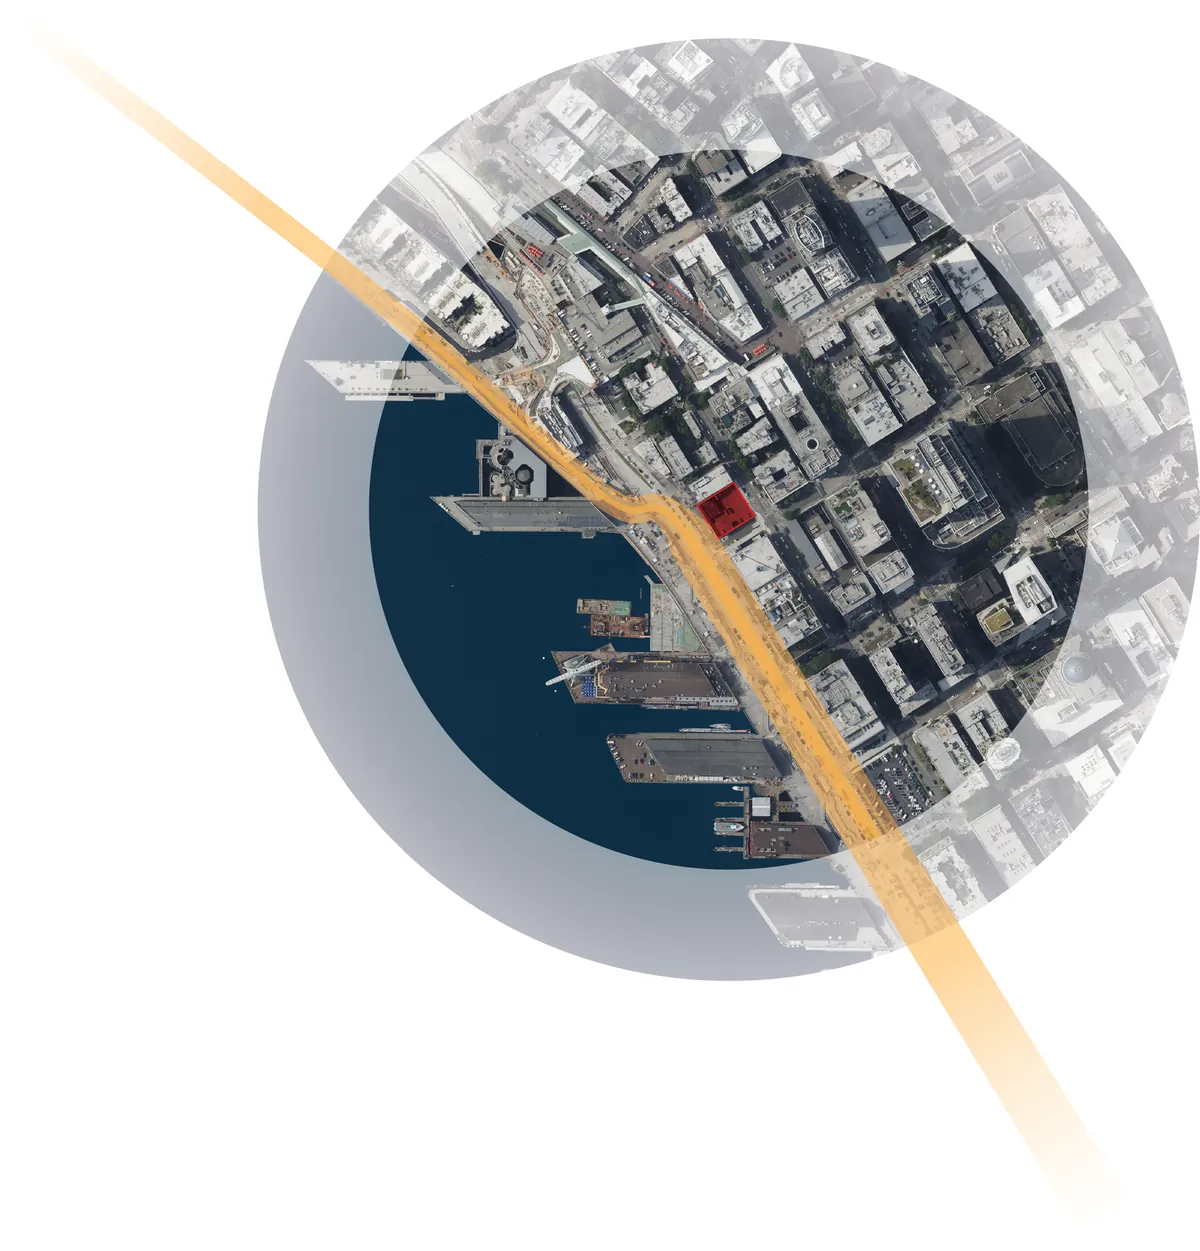
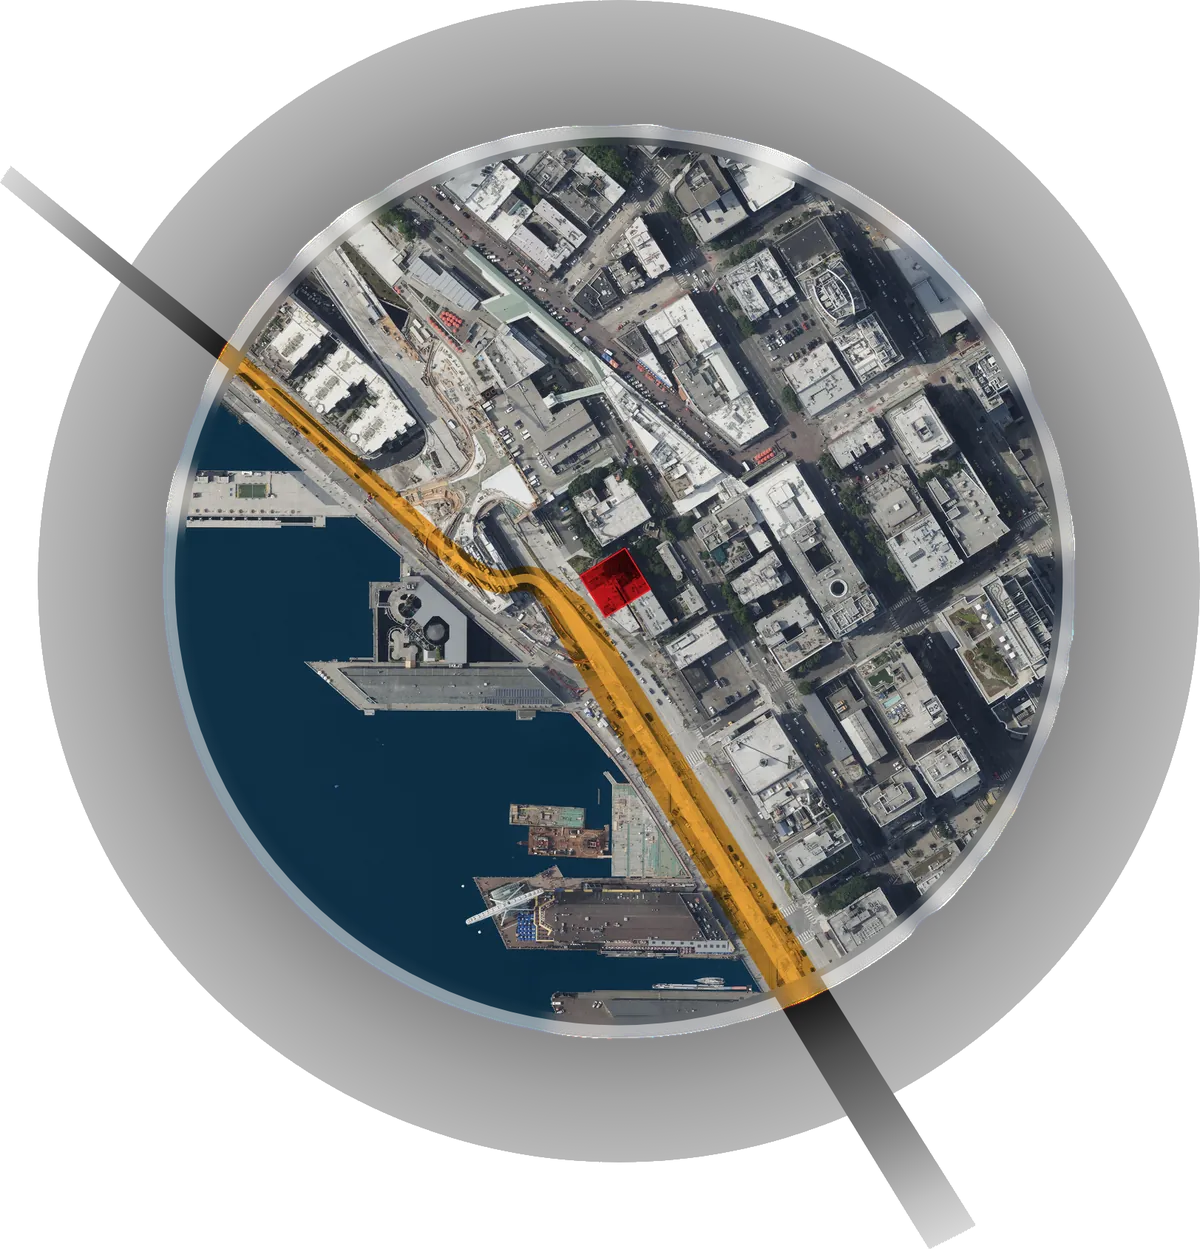
BRIDGE1400 site map: transparent edge fade instead of a white box
tools/render_site_map.py rebuilds the map from the Illustrator SVG with the
white radial fade replaced by an alpha fade, so it blends into light and dark
pages. Zoom images no longer get a white backing. Original design files under
docs/assets/img/*/Original/ are gitignored, and check_links skips them when
reporting site size.

diff --git a/docs/work/bridge1400/index.html b/docs/work/bridge1400/index.html
@@ -39,7 +39,7 @@
     <dl class="meta"><div><dt>Type</dt><dd>Mixed-use hotel</dd></div><div><dt>Location</dt><dd>Seattle, WA</dd></div><div><dt>Year</dt><dd>2025</dd></div><div><dt>Context</dt><dd>Graduate studio, WSU</dd></div><div><dt>Role</dt><dd>Sole designer</dd></div><div><dt>Tools</dt><dd>Revit, D5 Render, AutoCAD, Photoshop, Illustrator, Google Earth Studio</dd></div></dl>
     <div class="intro-text"><p>Bridge1400 sits on the threshold between Seattle&#x27;s mercantile downtown and its waterfront. Instead of smoothing over that break, the project makes it spatial: a tall void cuts through the podium as a civic canyon linking Alaskan Way to Western Avenue.</p><p>A grand stair works as both passage and pause, and a slow ramp climbs past planted terraces with filtered views of Elliott Bay. Above the four-level retail and lobby podium, a mass timber hotel tower frames the water to the northwest and the city to the southeast.</p><div class="facts"><div class="fact"><span>Levels</span><strong>13</strong></div><div class="fact"><span>Structure</span><strong>Mass timber tower over podium</strong></div><div class="fact"><span>Program</span><strong>Retail, hotel lobby, restaurants, pool, 9 guest-room levels</strong></div></div></div>
   </section>
-  <section class="chapter reveal"><div class="chapter-text"><h2>Site</h2><p>Between Pike Place Market and the waterfront promenade, the site takes its cues from both: vertical density to the east, openness and movement to the west.</p></div><div class="chapter-figs"><figure class="zoom"><img class="" src="../../assets/img/bridge1400/site-1200.webp" srcset="../../assets/img/bridge1400/site-1200.webp 1200w, ../../assets/img/bridge1400/site-2400.webp 2400w" sizes="(min-width: 1400px) 1400px, 100vw" width="2086" height="2174" alt="Site context: downtown Seattle and Elliott Bay" loading="lazy" decoding="async"><figcaption>Site context: downtown Seattle and Elliott Bay</figcaption></figure></div></section><section class="chapter reveal"><div class="chapter-text"><h2>Form</h2><p>Eight moves shape the block: a full zoning envelope, a daylight cut along Alaskan Way, an interlocking sloped tower, podium voids for entry and egress, a central atrium and the experiential ramp from Level 4 to Level 5.</p></div><div class="chapter-figs"><figure class="zoom"><img class="" src="../../assets/img/bridge1400/massing-1200.webp" srcset="../../assets/img/bridge1400/massing-1200.webp 1200w, ../../assets/img/bridge1400/massing-2400.webp 2400w" sizes="(min-width: 1400px) 1400px, 100vw" width="3200" height="1600" alt="Massing sequence and waterfront-to-city diagram" loading="lazy" decoding="async"><figcaption>Massing sequence and waterfront-to-city diagram</figcaption></figure></div></section><section class="chapter reveal"><div class="chapter-text"><h2>Plans</h2><p>Retail activates the first two levels. The hotel lobby, restaurants and an infinity pool fill the podium, and guest rooms stack above with terraces and a sky lounge.</p></div><div class="chapter-figs"><figure class="zoom"><img class="" src="../../assets/img/bridge1400/plans-1200.webp" srcset="../../assets/img/bridge1400/plans-1200.webp 1200w, ../../assets/img/bridge1400/plans-2400.webp 2400w" sizes="(min-width: 1400px) 1400px, 100vw" width="3200" height="1600" alt="Floor plans, Levels 1 to 13" loading="lazy" decoding="async"><figcaption>Floor plans, Levels 1 to 13</figcaption></figure></div></section><section class="chapter reveal"><div class="chapter-text"><h2>Sections</h2><p>Double-height retail glazing, a restaurant stair through a central void, and the pool-to-bar ramp are read together in section. Rooftop and facade PV, greywater reuse and rainwater harvesting are sized in the performance study.</p></div><div class="chapter-figs"><figure class="zoom"><img class="" src="../../assets/img/bridge1400/section-aa-1200.webp" srcset="../../assets/img/bridge1400/section-aa-1200.webp 1200w, ../../assets/img/bridge1400/section-aa-2400.webp 2400w" sizes="(min-width: 1400px) 1400px, 100vw" width="3200" height="1600" alt="Section AA" loading="lazy" decoding="async"><figcaption>Section AA</figcaption></figure><figure class="zoom"><img class="" src="../../assets/img/bridge1400/section-bb-1200.webp" srcset="../../assets/img/bridge1400/section-bb-1200.webp 1200w, ../../assets/img/bridge1400/section-bb-2400.webp 2400w" sizes="(min-width: 1400px) 1400px, 100vw" width="3200" height="1600" alt="Section BB with energy, water and carbon study" loading="lazy" decoding="async"><figcaption>Section BB with energy, water and carbon study</figcaption></figure></div></section>
+  <section class="chapter reveal"><div class="chapter-text"><h2>Site</h2><p>Between Pike Place Market and the waterfront promenade, the site takes its cues from both: vertical density to the east, openness and movement to the west.</p></div><div class="chapter-figs"><figure class="zoom"><img class="" src="../../assets/img/bridge1400/site-1200.webp" srcset="../../assets/img/bridge1400/site-1200.webp 1200w, ../../assets/img/bridge1400/site-2400.webp 2400w" sizes="(min-width: 1400px) 1400px, 100vw" width="1623" height="1689" alt="Site context: downtown Seattle and Elliott Bay" loading="lazy" decoding="async"><figcaption>Site context: downtown Seattle and Elliott Bay</figcaption></figure></div></section><section class="chapter reveal"><div class="chapter-text"><h2>Form</h2><p>Eight moves shape the block: a full zoning envelope, a daylight cut along Alaskan Way, an interlocking sloped tower, podium voids for entry and egress, a central atrium and the experiential ramp from Level 4 to Level 5.</p></div><div class="chapter-figs"><figure class="zoom"><img class="" src="../../assets/img/bridge1400/massing-1200.webp" srcset="../../assets/img/bridge1400/massing-1200.webp 1200w, ../../assets/img/bridge1400/massing-2400.webp 2400w" sizes="(min-width: 1400px) 1400px, 100vw" width="3200" height="1600" alt="Massing sequence and waterfront-to-city diagram" loading="lazy" decoding="async"><figcaption>Massing sequence and waterfront-to-city diagram</figcaption></figure></div></section><section class="chapter reveal"><div class="chapter-text"><h2>Plans</h2><p>Retail activates the first two levels. The hotel lobby, restaurants and an infinity pool fill the podium, and guest rooms stack above with terraces and a sky lounge.</p></div><div class="chapter-figs"><figure class="zoom"><img class="" src="../../assets/img/bridge1400/plans-1200.webp" srcset="../../assets/img/bridge1400/plans-1200.webp 1200w, ../../assets/img/bridge1400/plans-2400.webp 2400w" sizes="(min-width: 1400px) 1400px, 100vw" width="3200" height="1600" alt="Floor plans, Levels 1 to 13" loading="lazy" decoding="async"><figcaption>Floor plans, Levels 1 to 13</figcaption></figure></div></section><section class="chapter reveal"><div class="chapter-text"><h2>Sections</h2><p>Double-height retail glazing, a restaurant stair through a central void, and the pool-to-bar ramp are read together in section. Rooftop and facade PV, greywater reuse and rainwater harvesting are sized in the performance study.</p></div><div class="chapter-figs"><figure class="zoom"><img class="" src="../../assets/img/bridge1400/section-aa-1200.webp" srcset="../../assets/img/bridge1400/section-aa-1200.webp 1200w, ../../assets/img/bridge1400/section-aa-2400.webp 2400w" sizes="(min-width: 1400px) 1400px, 100vw" width="3200" height="1600" alt="Section AA" loading="lazy" decoding="async"><figcaption>Section AA</figcaption></figure><figure class="zoom"><img class="" src="../../assets/img/bridge1400/section-bb-1200.webp" srcset="../../assets/img/bridge1400/section-bb-1200.webp 1200w, ../../assets/img/bridge1400/section-bb-2400.webp 2400w" sizes="(min-width: 1400px) 1400px, 100vw" width="3200" height="1600" alt="Section BB with energy, water and carbon study" loading="lazy" decoding="async"><figcaption>Section BB with energy, water and carbon study</figcaption></figure></div></section>
   <a class="next" href="../../work/professional-work/"><span>Next project</span><strong>Professional Work</strong></a>
 </article>
 </main>

diff --git a/docs/assets/css/style.css b/docs/assets/css/style.css
@@ -114,7 +114,7 @@ em { font-family: var(--serif); font-style: italic; font-weight: 400; }
 .chapter-figs { display: grid; gap: 2rem; }
 figure { margin: 0; }
 figcaption { font-size: .85rem; color: var(--ink-2); margin-top: .6rem; }
-.zoom img { cursor: zoom-in; border-radius: 4px; background: #fff; }
+.zoom img { cursor: zoom-in; border-radius: 4px; }  /* no white backing: transparent drawings sit on the page colour */
 
 /* Reel hero: silent looping highlight video behind the headline (home + Films page) */
 .reel-hero { position: relative; overflow: hidden; background: #0e0e0d; color: #f4f2ee;

diff --git a/tools/render_site_map.py b/tools/render_site_map.py
@@ -1,0 +1,70 @@
+"""Render the BRIDGE1400 site map from Rakib's Illustrator SVG with a transparent edge fade.
+
+Run:  python tools/render_site_map.py
+Input:  docs/assets/img/bridge1400/Original/Site/*.svg   (Illustrator export, not published)
+Output: docs/assets/img/bridge1400/Original/Site/site-transparent.png   (2592 px, alpha)
+Then:   python tools/prepare_images.py   (makes the web copies)
+
+Why: the SVG fades its edge to solid white (<circle class="st3"> with a white radial gradient),
+which shows as a white box on the off-white page and in dark mode. This removes that circle and
+applies the same fade as an alpha mask, so the map dissolves into any background.
+"""
+import glob
+import os
+import re
+import subprocess
+
+ROOT = os.path.dirname(os.path.dirname(os.path.abspath(__file__)))
+FOLDER = os.path.join(ROOT, "docs", "assets", "img", "bridge1400", "Original", "Site")
+CHROME = r"C:\Program Files\Google\Chrome\Application\chrome.exe"
+OUT = os.path.join(FOLDER, "site-transparent.png")
+SIZE = 1296   # SVG viewBox
+SCALE = 2     # 2592 px output
+
+FADE = """
+<radialGradient id="fade" cx="648" cy="648" r="581.9" gradientUnits="userSpaceOnUse">
+  <stop offset=".5" stop-color="#fff" stop-opacity="1"/>
+  <stop offset=".6" stop-color="#fff" stop-opacity=".7"/>
+  <stop offset=".7" stop-color="#fff" stop-opacity=".5"/>
+  <stop offset=".8" stop-color="#fff" stop-opacity=".25"/>
+  <stop offset=".9" stop-color="#fff" stop-opacity=".08"/>
+  <stop offset="1" stop-color="#fff" stop-opacity="0"/>
+</radialGradient>
+<mask id="fade-mask" maskUnits="userSpaceOnUse" x="0" y="0" width="1296" height="1296">
+  <rect width="1296" height="1296" fill="url(#fade)"/>
+</mask>
+</defs>"""
+
+
+def main():
+    svgs = [p for p in glob.glob(os.path.join(FOLDER, "*.svg")) if not p.endswith("-transparent.svg")]
+    if not svgs:
+        raise SystemExit(f"no SVG in {FOLDER}")
+    src = max(svgs, key=os.path.getmtime)
+    svg = open(src, encoding="utf-8").read()
+    svg, removed = re.subn(r'<circle class="st3"[^>]*/>', "", svg)  # the white fade overlay
+    svg = svg.replace("</defs>", FADE, 1).replace('<g id="Layer_1">', '<g id="Layer_1" mask="url(#fade-mask)">', 1)
+    tmp_svg = os.path.join(FOLDER, "_render-transparent.svg")
+    tmp_html = os.path.join(FOLDER, "_render.html")
+    open(tmp_svg, "w", encoding="utf-8").write(svg)
+    open(tmp_html, "w", encoding="utf-8").write(
+        f'<!doctype html><html><head><style>html,body{{margin:0;background:transparent}}'
+        f'img{{display:block;width:{SIZE}px;height:{SIZE}px}}</style></head>'
+        f'<body><img src="_render-transparent.svg"></body></html>')
+    profile = os.path.join(os.environ.get("TEMP", FOLDER), "rakibhasan-chrome-render")
+    try:
+        subprocess.run([CHROME, "--headless=new", "--disable-gpu", "--hide-scrollbars",
+                        "--allow-file-access-from-files", "--default-background-color=00000000",
+                        f"--force-device-scale-factor={SCALE}", f"--window-size={SIZE},{SIZE}",
+                        "--virtual-time-budget=20000", f"--user-data-dir={profile}",
+                        f"--screenshot={OUT}", "file:///" + tmp_html.replace("\\", "/")],
+                       capture_output=True, timeout=180, check=True)
+    finally:
+        for p in (tmp_svg, tmp_html):
+            if os.path.exists(p):
+                os.remove(p)
+    print(f"{os.path.basename(src)} -> {os.path.basename(OUT)} (white fade circles removed: {removed})")
+
+
+if __name__ == "__main__":
+    main()

diff --git a/tools/prepare_images.py b/tools/prepare_images.py
@@ -19,14 +19,14 @@ OUT = os.path.join(ROOT, "docs", "assets", "img")
 MANIFEST = os.path.join(ROOT, "content", "images.json")
 WIDTHS = (1200, 2400)
 # transparent images to trim to their visible pixels (headshot circle has empty margins)
-CROP_TO_CONTENT = {"Headshot.psd"}
+CROP_TO_CONTENT = {"Headshot.psd", "site-transparent.png"}
 
 # project -> list of (output name, source). Source is a Links filename or "pdf:<page>".
 IMAGES = {
     "about": [("headshot", "Headshot.psd")],
     "bridge1400": [
         ("hero", "F2.jpg"),
-        ("site", "250729 Site Micro.png"),
+        ("site", os.path.join(ROOT, "docs", "assets", "img", "bridge1400", "Original", "Site", "site-transparent.png")),
         ("massing", "pdf:5"),
         ("plans", "pdf:6"),
         ("section-aa", "pdf:7"),
@@ -123,10 +123,10 @@ def load(src, doc):
         zoom = 3200 / page.rect.width
         pix = page.get_pixmap(matrix=pymupdf.Matrix(zoom, zoom))
         return Image.frombytes("RGB", (pix.width, pix.height), pix.samples)
-    im = Image.open(os.path.join(LINKS, src))
+    im = Image.open(src if os.path.isabs(src) else os.path.join(LINKS, src))  # absolute = file outside Links
     if im.mode in ("RGBA", "LA", "P"):
         im = im.convert("RGBA")
-        if src in CROP_TO_CONTENT:
+        if os.path.basename(src) in CROP_TO_CONTENT:
             im = decontaminate(im)
             return im.crop(im.split()[-1].getbbox())  # keep transparency, no white fill
         bg = Image.new("RGB", im.size, "white")

diff --git a/tools/check_links.py b/tools/check_links.py
@@ -24,5 +24,7 @@ for page in glob.glob(os.path.join(SITE, "**", "index.html"), recursive=True):
             missing += 1
             print("MISSING", os.path.relpath(page, SITE), url)
 
-size = sum(os.path.getsize(f) for f in glob.glob(os.path.join(SITE, "**", "*"), recursive=True) if os.path.isfile(f))
+published = [f for f in glob.glob(os.path.join(SITE, "**", "*"), recursive=True)
+             if os.path.isfile(f) and f"{os.sep}Original{os.sep}" not in f]  # Original/ design files are gitignored
+size = sum(os.path.getsize(f) for f in published)
 print(f"checked {checked} links, missing {missing}, site size {size / 1e6:.1f} MB")
